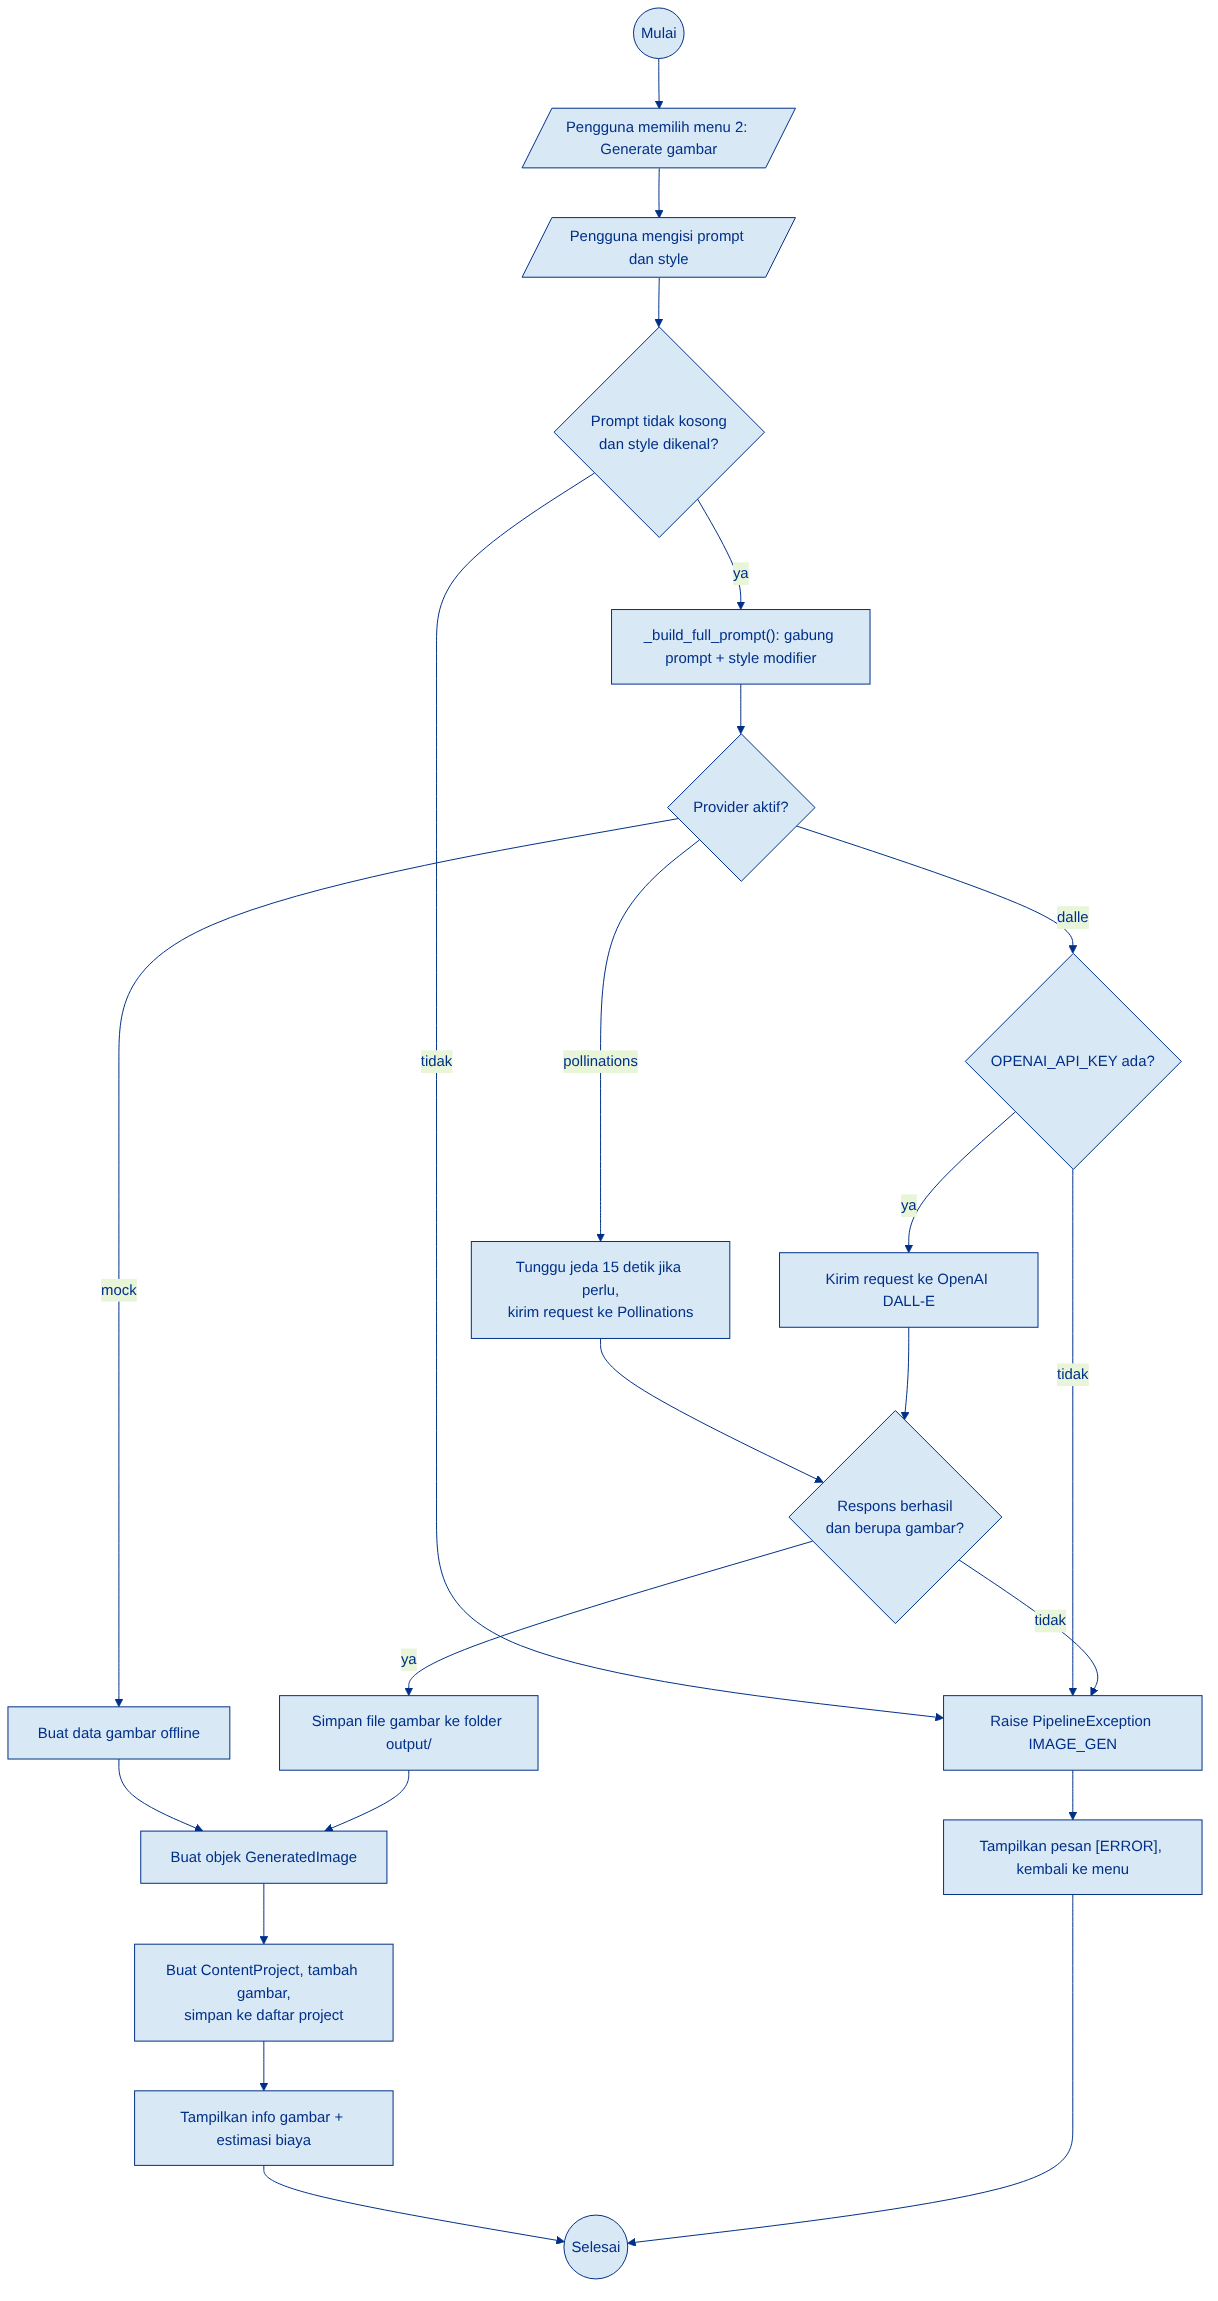
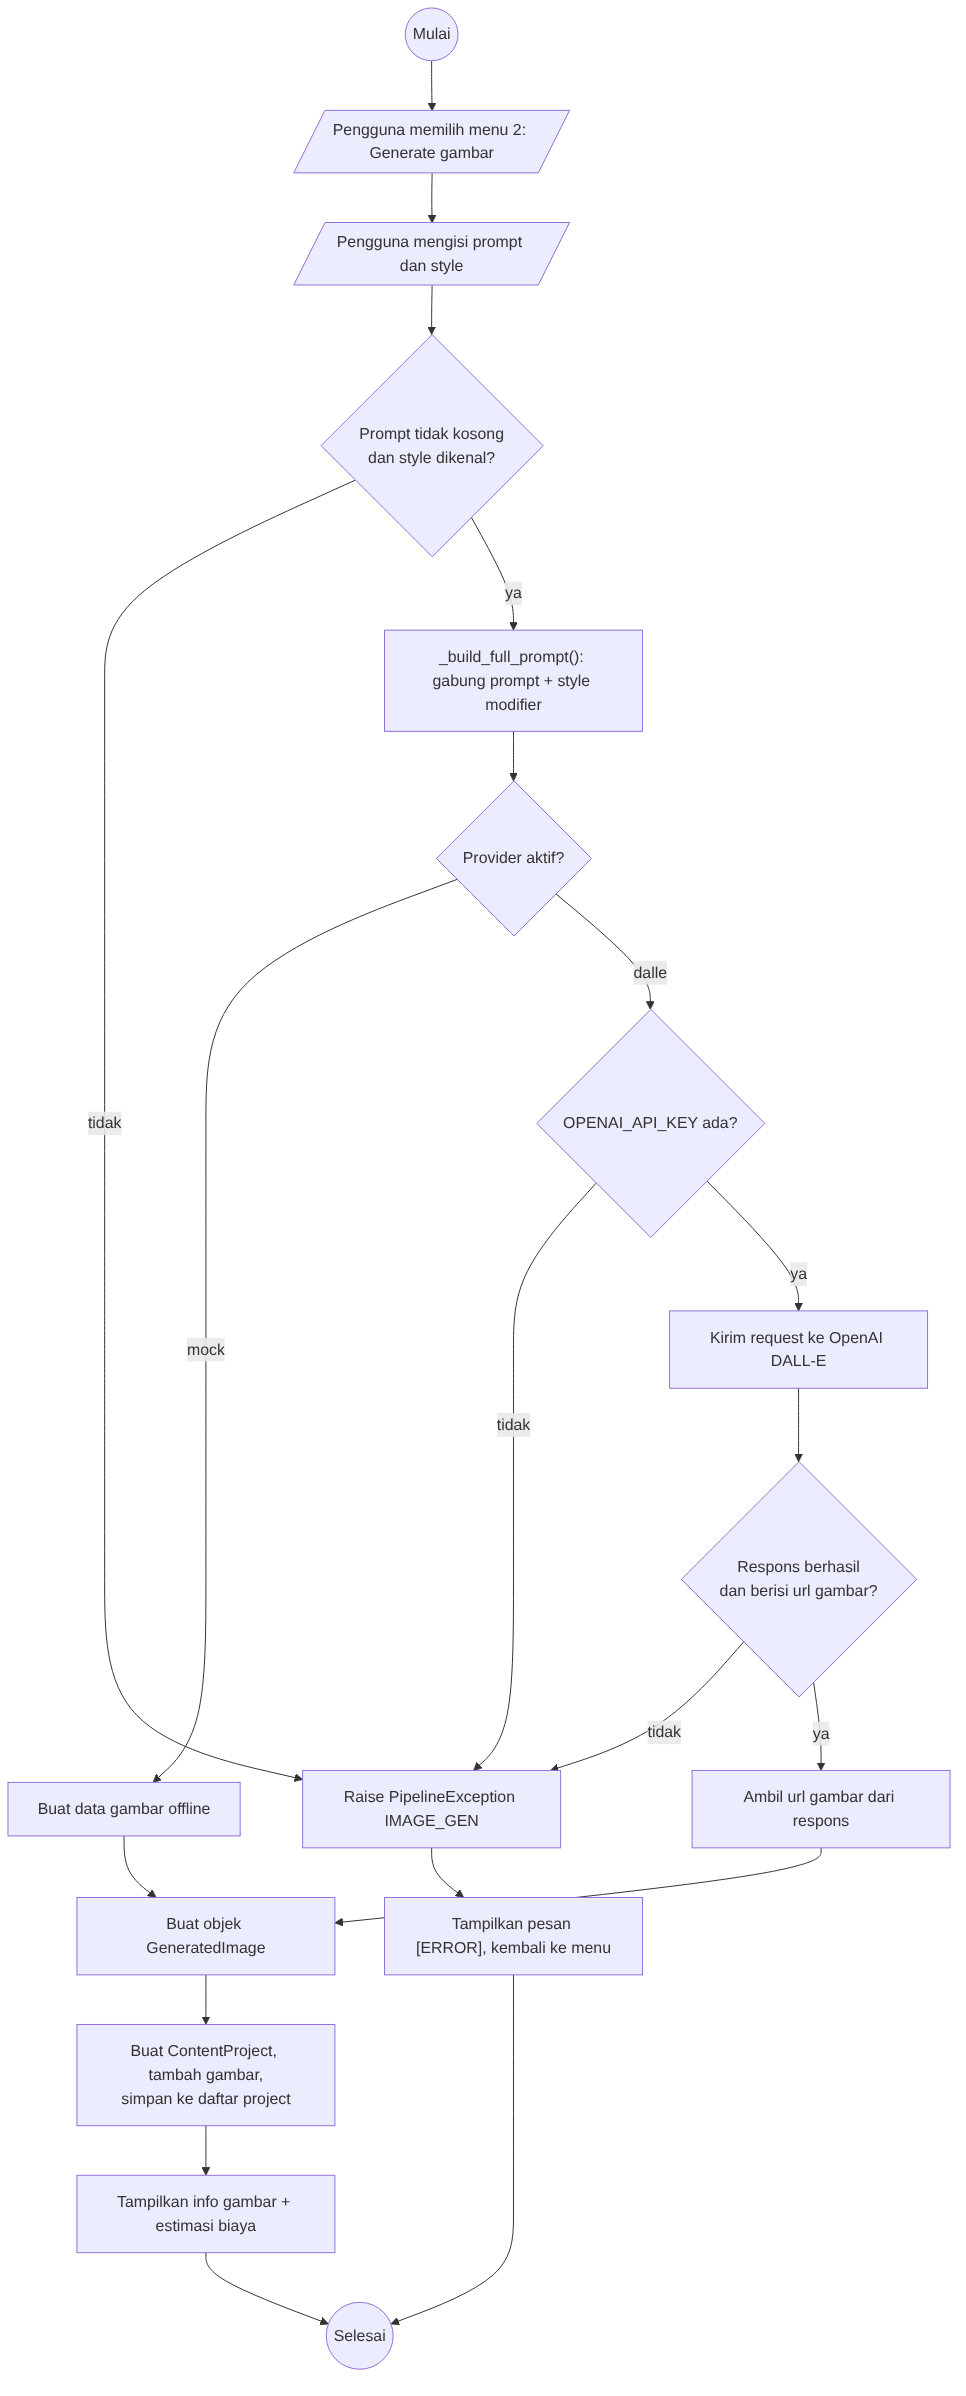
Hapus Pollinations, provider otomatis Mock/DALL-E sesuai ketentuan topik I3
- Hapus generators/pollinations.py, folder output/, dan menu buka file gambar
- main.py: generator_otomatis() memilih Mock (lokal) atau DALL-E saat OPENAI_API_KEY tersedia
- Perbarui README, PENJELASAN_ALUR, dan diagram (class, use case, activity)

Claude-Session: https://claude.ai/code/session_012rixKyK6oFrfemVAb3ZTMX

diff --git a/main.py b/main.py
@@ -3,7 +3,6 @@
 #            python main.py --demo   -> demo otomatis (mode Mock, tanpa API key)
 import os
 import sys
-import webbrowser
 
 from config import format_biaya
 from content_pipeline import ContentPipeline
@@ -11,14 +10,20 @@ from exceptions import PipelineException
 from generators.base import ImageGenerator
 from generators.dalle import DALLEImageGenerator
 from generators.mock import MockImageGenerator
-from generators.pollinations import PollinationsImageGenerator
 
 # Daftar provider gambar yang bisa dipilih user
 PROVIDER_GAMBAR = {
     "mock": MockImageGenerator,
     "dalle": DALLEImageGenerator,
-    "pollinations": PollinationsImageGenerator,
 }
+
+
+# Arahan dosen: di lokal pakai data Mock, DALL-E baru dipakai saat API key tersedia.
+# Karena keduanya turunan ImageGenerator, pipeline tidak perlu tahu mana yang dipilih.
+def generator_otomatis():
+    if os.environ.get("OPENAI_API_KEY"):
+        return DALLEImageGenerator()
+    return MockImageGenerator()
 
 
 # Fitur 10: menampilkan info gambar hasil + estimasi biaya
@@ -33,14 +38,6 @@ def tampilkan_project(project, nomor=None):
         print(f"      biaya    : {format_biaya(g.biaya)}")
     total = sum(g.biaya for g in project.gambar_list)
     print(f"  Estimasi biaya project: {format_biaya(total)}")
-
-
-def buka_gambar(gambar):
-    """Membuka file gambar hasil generate dengan aplikasi bawaan laptop."""
-    if not os.path.isfile(gambar.url):
-        raise PipelineException("BUKA_GAMBAR", f"{gambar.url} bukan file gambar asli (hasil mode mock)")
-    webbrowser.open("file://" + os.path.abspath(gambar.url))
-    print(f"Membuka {gambar.url}")
 
 
 def project_terakhir(pipeline):
@@ -69,7 +66,7 @@ def demo():
     print(f"  Gambar terpilih: {terpilih.url} (style {terpilih.style})")
 
     print("\n[4] Polymorphism: generator berbeda, pemanggilan sama")
-    print("    (pollinations butuh internet, bisa memakan waktu 10-60 detik)")
+    print("    (dalle hanya berhasil jika OPENAI_API_KEY sudah diatur)")
     for nama, kelas in PROVIDER_GAMBAR.items():
         try:
             gambar = kelas().generate("gunung bersalju", "cinematic")
@@ -96,7 +93,11 @@ def demo():
 
 
 def menu():
-    pipeline = ContentPipeline(MockImageGenerator())
+    pipeline = ContentPipeline(generator_otomatis())
+    if pipeline.image_generator.nama_provider == "mock":
+        print("OPENAI_API_KEY tidak ditemukan -> memakai data Mock (lokal).")
+    else:
+        print("OPENAI_API_KEY ditemukan -> generate memakai DALL-E.")
     while True:
         print("\n" + "=" * 50)
         print("  AI CONTENT CREATOR STUDIO (UTS)")
@@ -107,7 +108,6 @@ def menu():
         print("3. Tambah gambar style lain ke project terakhir")
         print("4. Pilih gambar untuk dijadikan video")
         print("5. Lihat semua project")
-        print("6. Buka file gambar dari project terakhir")
         print("0. Keluar")
         pilihan = input("Pilih menu: ").strip()
 
@@ -138,11 +138,6 @@ def menu():
                     print("Belum ada project.")
                 for nomor, p in enumerate(pipeline.projects, start=1):
                     tampilkan_project(p, nomor)
-            elif pilihan == "6":
-                project = project_terakhir(pipeline)
-                tampilkan_project(project)
-                idx = int(input("Indeks gambar: "))
-                buka_gambar(project.pilih_untuk_video(idx))
             elif pilihan == "0":
                 print("Sampai jumpa!")
                 break

diff --git a/contoh_bab6.py b/contoh_bab6.py
@@ -57,5 +57,4 @@ for generator in [MockImageGenerator(), DALLEImageGenerator()]:
         print(generator.nama_provider, "->", hasil.url)
     except PipelineException as e:
         print(generator.nama_provider, "->", e)
-# (Pollinations tidak dimasukkan di sini supaya tidak perlu internet & menunggu 15 detik;
-#  coba lewat menu 2 di main.py)
+# (DALL-E tanpa OPENAI_API_KEY akan melempar PipelineException, bukan membuat program berhenti)

diff --git a/config.py b/config.py
@@ -10,11 +10,3 @@ def format_biaya(usd):
     """Mengubah biaya USD menjadi teks USD + perkiraan Rupiah."""
     rupiah = usd * KURS_USD_KE_IDR
     return f"${usd:.2f} (~Rp{rupiah:,.0f})".replace(",", ".")
-
-
-# Pollinations.ai: gratis, tanpa API key (batas 1 request per 15 detik)
-HARGA_POLLINATIONS_PER_GAMBAR = 0.0
-JEDA_POLLINATIONS = 15
-
-# Folder tempat menyimpan file gambar hasil generate
-FOLDER_OUTPUT = "output"

diff --git a/content_pipeline.py b/content_pipeline.py
@@ -1,6 +1,6 @@
 # CONTENT PIPELINE (Fitur 9)
 # Pengatur alur pembuatan konten. Di tahap UTS baru Tahap 1: teks -> gambar.
-# Pipeline tidak peduli generatornya DALL-E, Pollinations, atau Mock, cukup
+# Pipeline tidak peduli generatornya DALL-E atau Mock, cukup
 # memanggil generate() (POLYMORPHISM).
 from models.content_project import ContentProject
 

diff --git a/generators/base.py b/generators/base.py
@@ -1,5 +1,5 @@
 # IMAGE GENERATOR - ABSTRACT BASE CLASS (Fitur 1 dan 5)
-# Kelas induk untuk semua generator gambar (DALL-E, Stable Diffusion, Mock).
+# Kelas induk untuk semua generator gambar (DALL-E dan Mock).
 # Setiap kelas turunan WAJIB membuat method generate().
 from abc import ABC, abstractmethod
 

diff --git a/generators/__init__.py b/generators/__init__.py
@@ -1,4 +1,3 @@
 from generators.base import ImageGenerator
 from generators.dalle import DALLEImageGenerator
 from generators.mock import MockImageGenerator
-from generators.pollinations import PollinationsImageGenerator

diff --git a/docs/PENJELASAN_ALUR.md b/docs/PENJELASAN_ALUR.md
@@ -7,9 +7,8 @@ main.py (CLI)
    │
    ▼
 ContentPipeline ──memakai──► ImageGenerator (abstract)
-   │                             ├── DALLEImageGenerator        (berbayar)
-   │                             ├── PollinationsImageGenerator (gratis, gambar asli)
-   │                             └── MockImageGenerator         (offline)
+   │                             ├── DALLEImageGenerator  (berbayar, butuh API key)
+   │                             └── MockImageGenerator   (offline, untuk demo)
    ▼
 ContentProject ──berisi──► GeneratedImage (gambar_list)
 ```
@@ -19,23 +18,26 @@ Contoh: `pipeline.jalankan("kucing", "anime")`
 
 | Langkah | Terjadi di | Hasil |
 |---|---|---|
-| 1 | `ContentPipeline.jalankan()` membuat `ContentProject("kucing")` | project kosong |
-| 2 | Memanggil `self.image_generator.generate("kucing", "anime")` | |
-| 3 | `generate()` memanggil `_build_full_prompt()` dari kelas induk | `"kucing, anime style, vibrant colors, clean line art"` |
-| 4 | Mock membuat url `mock://image/001.png` (DALL-E memanggil API) | |
-| 5 | Mengembalikan objek `GeneratedImage` | |
+| 1 | `ContentPipeline.jalankan()` memanggil `self.image_generator.generate("kucing", "anime")` | |
+| 2 | `generate()` memanggil `_build_full_prompt()` dari kelas induk | `"kucing, anime style, vibrant colors, clean line art"` |
+| 3 | Mock membuat url `mock://image/001.png` (DALL-E memanggil API) | |
+| 4 | Mengembalikan objek `GeneratedImage` | |
+| 5 | Baru setelah generate berhasil, `jalankan()` membuat `ContentProject("kucing")` | project kosong |
 | 6 | `project.tambah_gambar(gambar)` | `gambar_list` berisi 1 |
 | 7 | Project disimpan ke `pipeline.projects` lalu dikembalikan | |
 | 8 | `main.py` mencetak info gambar + estimasi biaya | tampilan CLI |
 
-## 3. Alur Pollinations (gambar sungguhan)
+Generate dijalankan lebih dulu (`content_pipeline.py`, method `jalankan()`): kalau generate gagal,
+exception langsung keluar dari method, sehingga project kosong tidak ikut tersimpan.
+
+## 3. Alur DALL-E (hanya jika API key tersedia)
 1. `_build_full_prompt()` → `"kucing, anime style, vibrant colors, clean line art"`
-2. `_tunggu_jeda()` → kalau request sebelumnya belum lewat 15 detik, program menunggu dulu
-3. Prompt di-encode ke URL (`urllib.parse.quote`), karena spasi dan koma tidak boleh langsung masuk URL
-4. Request GET ke `https://image.pollinations.ai/prompt/...`
-5. Cek `Content-Type` harus `image/...` (bukan halaman error)
-6. Isi gambar ditulis ke `output/pollinations_<tanggal>_<jam>.jpg`
-7. Mengembalikan `GeneratedImage` dengan `url` = path file tersebut
+2. Cek `self.api_key`. Kalau kosong → `PipelineException("IMAGE_GEN", "OPENAI_API_KEY belum diatur")`
+3. Data request (model, prompt, jumlah, ukuran) diubah ke JSON
+4. Request POST ke `https://api.openai.com/v1/images/generations` dengan header `Authorization: Bearer <api key>`
+5. Respons JSON dibaca, url gambar diambil dari `data["data"][0]["url"]`
+6. HTTP error, koneksi gagal, atau format respons salah → diubah menjadi `PipelineException`
+7. Mengembalikan `GeneratedImage` dengan `url` = alamat gambar dari OpenAI
 
 ## 4. Alur Exception
 Error dibungkus `PipelineException(tahap, alasan)`, jadi pesan selalu menunjukkan **tahap** terjadinya masalah:
@@ -43,9 +45,9 @@ Error dibungkus `PipelineException(tahap, alasan)`, jadi pesan selalu menunjukka
 | Tahap | Penyebab | Dicek di |
 |---|---|---|
 | `IMAGE_GEN` | prompt kosong / style tidak dikenal | `_build_full_prompt()` |
-| `IMAGE_GEN` | API key kosong, HTTP error, koneksi gagal | `DALLEImageGenerator.generate()` |
-| `IMAGE_GEN` | koneksi gagal, timeout, HTTP 429 (terlalu banyak request), respons bukan gambar | `PollinationsImageGenerator.generate()` |
-| `BUKA_GAMBAR` | mencoba membuka gambar hasil mock (bukan file asli) | `main.py` menu 6 |
+| `IMAGE_GEN` | API key kosong, HTTP error, koneksi gagal, format respons salah | `DALLEImageGenerator.generate()` |
+| `IMAGE_GEN` | mock disuruh gagal (`gagal=True`) | `MockImageGenerator.generate()` |
+| `PROJECT` | prompt project kosong / belum ada project | `ContentProject` (setter `prompt`), `main.py` |
 | `PILIH_GAMBAR` | project kosong / indeks di luar jangkauan | `pilih_untuk_video()` |
 | `PROVIDER` | nama provider tidak ada | `main.py` menu 1 |
 
@@ -70,17 +72,17 @@ Tanda method internal (protected): dipakai oleh kelas turunan, bukan dipanggil l
 **Kenapa membuat exception sendiri (`PipelineException`)?**
 Supaya pesan error menyebutkan tahap terjadinya masalah (`IMAGE_GEN`, `PILIH_GAMBAR`, ...). Ini memudahkan mencari sumber error, terutama nanti saat pipeline punya 2 tahap (gambar dan video).
 
-**Kenapa memakai Pollinations?**
-Karena DALL-E berbayar. Pollinations gratis dan tanpa API key, jadi kami tetap bisa menghasilkan gambar AI sungguhan. Karena ia turunan `ImageGenerator`, `ContentPipeline` tidak perlu diubah sama sekali.
+**Kenapa project dibuat setelah generate, bukan sebelumnya?**
+Lihat `ContentPipeline.jalankan()`: baris `generate()` ada di atas baris `ContentProject(prompt)`. Kalau generate gagal, exception langsung keluar, jadi tidak ada project kosong yang tersimpan di `pipeline.projects`.
 
-**Kenapa harus menunggu 15 detik?**
-Itu batas layanan gratis Pollinations. `_waktu_terakhir` disimpan sebagai atribut kelas (bukan atribut objek), jadi berlaku untuk semua objek Pollinations. Kalau tetap kena batas, server membalas HTTP 429 dan kami ubah menjadi `PipelineException`.
+**Kenapa demo memakai Mock, bukan DALL-E?**
+DALL-E berbayar dan butuh API key. Di lokal kami memakai data Mock; DALL-E baru dipakai saat API key tersedia.
 
-**Kenapa cek `Content-Type`?**
-Kadang server membalas halaman error (HTML) dengan status sukses. Kalau tidak dicek, file `.jpg` yang tersimpan sebenarnya rusak.
+**Dari mana program tahu harus pakai Mock atau DALL-E?**
+Dari fungsi `generator_otomatis()` di `main.py`. Fungsi itu membaca `os.environ.get("OPENAI_API_KEY")`: kalau ada isinya, mengembalikan `DALLEImageGenerator()`; kalau tidak, `MockImageGenerator()`. Hasilnya diberikan ke `ContentPipeline(...)` di awal `menu()`. Karena keduanya turunan `ImageGenerator`, `ContentPipeline` tidak diubah sama sekali (polymorphism).
 
-**Kenapa prompt harus di-`quote()`?**
-Prompt dimasukkan ke URL. Spasi dan simbol seperti koma harus diubah ke format URL (`%20`, `%2C`), kalau tidak URL-nya tidak valid.
+**Kalau DALL-E dipilih tapi API key tidak ada?**
+`DALLEImageGenerator.generate()` mengecek `self.api_key` sebelum memanggil API. Kalau kosong, raise `PipelineException("IMAGE_GEN", "OPENAI_API_KEY belum diatur")`, ditangkap di `main.py`, dan program kembali ke menu.
 
 **Kenapa ada Mock?**
 Supaya program bisa didemokan tanpa API key dan tanpa biaya. Mock juga bisa disuruh gagal (`gagal=True`) untuk menunjukkan exception handling.

diff --git a/README.md b/README.md
@@ -3,10 +3,9 @@
 Proyek PPBO 2026 – Topik **[I3] AI Content Creator Studio (Teks → Gambar → Video)**.
 Tahap UTS mengerjakan **fitur 1–10**: alur **teks (prompt) → gambar**.
 
-Ada 3 provider gambar:
-- **pollinations** → menghasilkan **gambar AI sungguhan secara GRATIS** (tanpa API key, butuh internet)
-- **dalle** → gambar AI dari OpenAI (berbayar, butuh API key)
-- **mock** → mode offline untuk demo cepat, tanpa file gambar
+Ada 2 provider gambar:
+- **mock** → mode offline tanpa API key, dipakai untuk demo di lokal
+- **dalle** → gambar AI dari OpenAI (berbayar), hanya dipakai jika API key tersedia
 
 ---
 
@@ -19,33 +18,32 @@ python main.py           # menu interaktif
 
 Tidak perlu install library tambahan (hanya Python standar).
 
-### Menghasilkan gambar sungguhan (gratis)
-1. Jalankan `python main.py`
-2. Menu **1** → ketik `pollinations`
-3. Menu **2** → isi prompt dan style
-4. File gambar tersimpan di folder `output/`, buka lewat menu **6**
+### Pemilihan provider otomatis
+Saat `python main.py` dijalankan, program mengecek environment variable `OPENAI_API_KEY`
+(fungsi `generator_otomatis()` di `main.py`):
+- **tidak ada API key** → memakai data **Mock** (lokal)
+- **ada API key** → generate memakai **DALL-E**
+
+```bash
+export OPENAI_API_KEY="..."   # hanya jika punya API key
+python main.py
+```
+Provider tetap bisa diganti manual lewat menu 1. Jika `dalle` dipilih tanpa API key, program
+melempar `PipelineException` dengan pesan yang jelas. **Jangan menulis API key di kode.**
+`python main.py --demo` selalu memakai Mock.
 
 **Jika muncul error `CERTIFICATE_VERIFY_FAILED` (macOS):** jalankan sekali
 `open "/Applications/Python 3.13/Install Certificates.command"` (sesuaikan versi Python),
 atau `python3 -m pip install --upgrade certifi`. Program otomatis memakai certifi jika terpasang.
-
-Batasan layanan gratis Pollinations: 1 request per 15 detik (program menunggu otomatis),
-gambar bisa memakan waktu 10–60 detik, dan kadang ada watermark.
-
-### Memakai DALL-E asli (opsional)
-```bash
-export OPENAI_API_KEY="..."
-```
-Lalu pilih provider `dalle` di menu 1. Tanpa API key, DALL-E akan melempar
-`PipelineException` dengan pesan yang jelas. **Jangan menulis API key di kode.**
 
 ---
 
 ## Struktur Folder
 
 ```
-ai-content-studio-uts/
+ai-content-studio/
 ├── main.py                  # CLI (menu interaktif + demo)
+├── contoh_bab6.py           # contoh kode BAB VI laporan (bisa dijalankan)
 ├── config.py                # harga & kurs
 ├── exceptions.py            # PipelineException
 ├── content_pipeline.py      # ContentPipeline (Tahap 1)
@@ -53,14 +51,13 @@ ai-content-studio-uts/
 ├── generators/
 │   ├── base.py              # ImageGenerator (Abstract Base Class)
 │   ├── dalle.py             # DALLEImageGenerator
-│   ├── pollinations.py      # PollinationsImageGenerator (gratis)
 │   └── mock.py              # MockImageGenerator
-├── output/                  # file gambar hasil generate
 ├── models/
 │   ├── generated_image.py   # GeneratedImage
 │   └── content_project.py   # ContentProject
 └── docs/
     ├── class_diagram.png    # Class diagram UML
+    ├── diagrams/            # use case & activity diagram
     └── PENJELASAN_ALUR.md   # alur program & persiapan tanya jawab
 ```
 
@@ -71,9 +68,9 @@ ai-content-studio-uts/
 | No | Fitur | Lokasi |
 |---|---|---|
 | 1 | `ImageGenerator` sebagai Abstract Base Class | `generators/base.py` |
-| 2 | `DALLEImageGenerator` extends `ImageGenerator`, implement `generate()` (+ tambahan: `PollinationsImageGenerator` gratis) | `generators/dalle.py`, `generators/pollinations.py` |
+| 2 | `DALLEImageGenerator` extends `ImageGenerator`, implement `generate()` | `generators/dalle.py` |
 | 3 | `MockImageGenerator`: mode offline tanpa API key | `generators/mock.py` |
-| 4 | Raise `PipelineException('IMAGE_GEN', alasan)` jika gagal | `exceptions.py` |
+| 4 | Raise `PipelineException('IMAGE_GEN', alasan)` jika gagal | `exceptions.py`, `generators/` |
 | 5 | `_build_full_prompt()`: gabungkan prompt + style modifier | `generators/base.py` |
 | 6 | `GeneratedImage`: simpan url, prompt, style, provider, biaya | `models/generated_image.py` |
 | 7 | `ContentProject`: tampung `gambar_list` & `video_list` | `models/content_project.py` |
@@ -85,14 +82,13 @@ ai-content-studio-uts/
 
 | Konsep | Penerapan |
 |---|---|
-| **Inheritance / ABC** | `ImageGenerator` (abstract) → `DALLEImageGenerator`, `PollinationsImageGenerator`, `MockImageGenerator` · `PipelineException` → turunan `Exception` |
-| **Polymorphism** | `ContentPipeline.jalankan()` cukup memanggil `generate()`; hasilnya berbeda tergantung generator yang dipakai (Mock / DALL-E / Pollinations) |
-| **Exception Handling** | `PipelineException(tahap, alasan)` untuk prompt kosong, style salah, API key kosong, HTTP error, koneksi gagal, timeout, batas request (HTTP 429), respons bukan gambar, indeks gambar salah, provider tidak ada. Semua ditangkap di CLI sehingga program tidak berhenti |
+| **Inheritance / ABC** | `ImageGenerator` (abstract) → `DALLEImageGenerator`, `MockImageGenerator` · `PipelineException` → turunan `Exception` |
+| **Polymorphism** | `ContentPipeline.jalankan()` cukup memanggil `generate()`; hasilnya berbeda tergantung generator yang dipakai (Mock / DALL-E) |
+| **Exception Handling** | `PipelineException(tahap, alasan)` untuk prompt kosong, style salah, API key kosong, HTTP error, koneksi gagal, format respons salah, indeks gambar salah, provider tidak ada. Semua ditangkap di CLI sehingga program tidak berhenti |
 
 ---
 
 ## Catatan
-- Pollinations.ai adalah layanan gratis pihak ketiga; aturannya bisa berubah sewaktu-waktu. Jika gagal, ganti ke provider `mock`.
 - Harga di `config.py` adalah **estimasi**; cek harga terbaru di situs resmi OpenAI.
 - Mode Mock memakai **biaya simulasi** (setara DALL-E) supaya estimasi biaya bisa didemokan. Tidak ada tagihan sungguhan.
 - `video_list` di `ContentProject` sudah disiapkan, dan akan diisi pada Tahap 2 (UAS).
